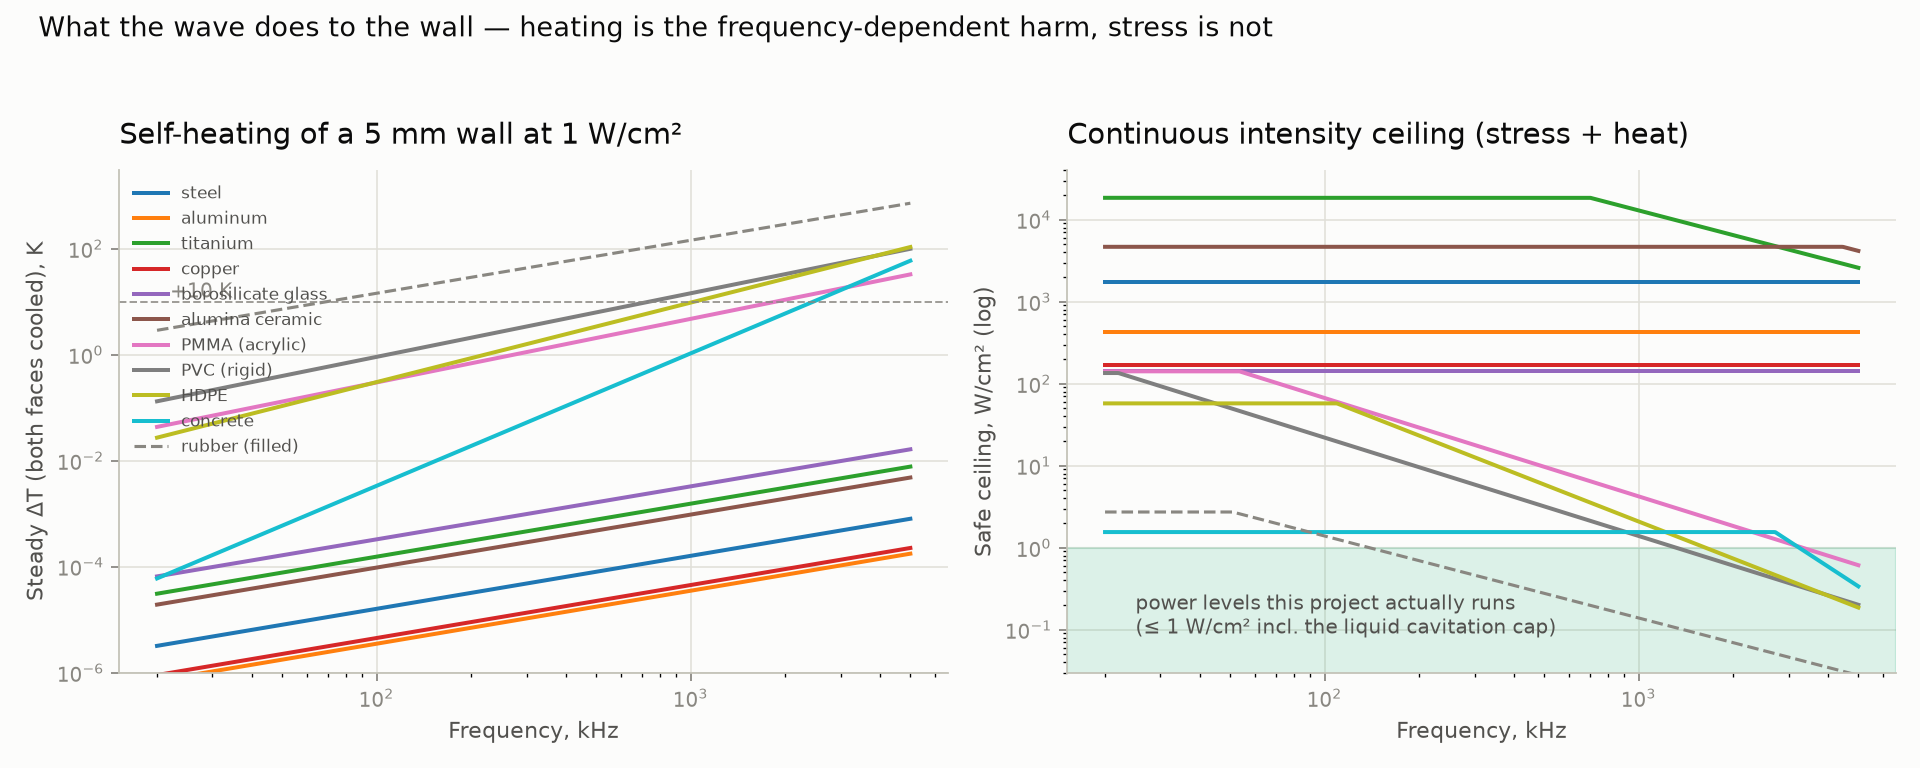
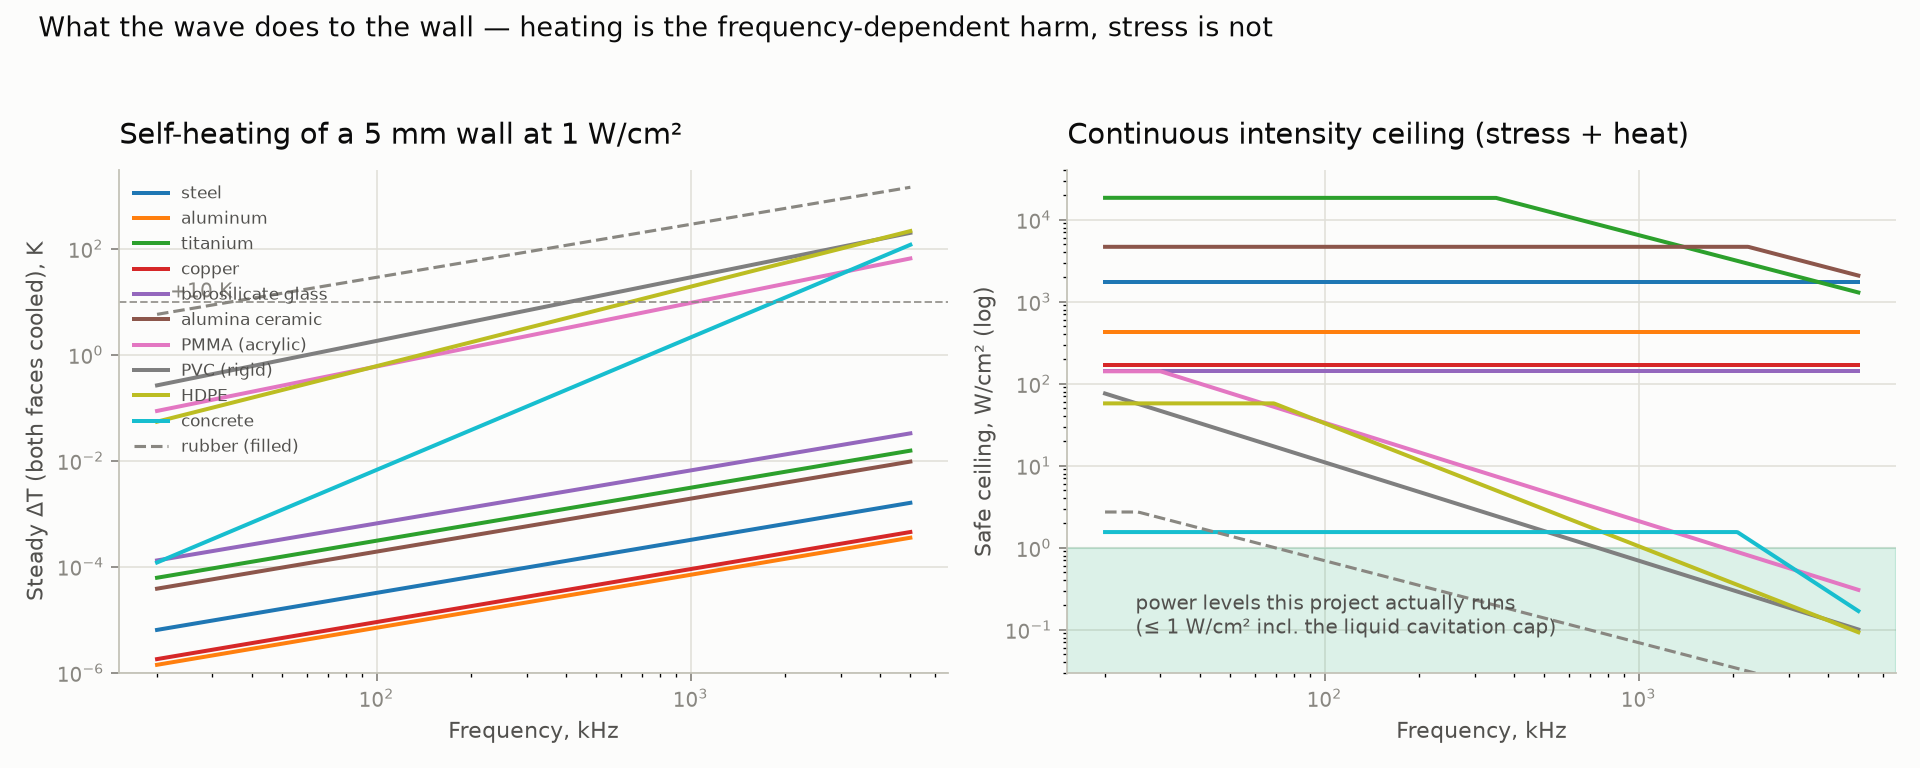
fix: intensity dB<->Np factor in the heating term (2x), add a CI self-check
The heating term converted absorption dB to Np/m with /8.686 — the
AMPLITUDE (field) convention. alpha values in the table are intensity dB
(10*log10), so the correct constant is /4.343: every dT in the dose
table was exactly 2x too low and every heat-limited ceiling 2x too
generous. Transmission numbers (10^(-alpha*d/10) path) were never
affected. Corrected: PMMA +9.5 K, PVC +28.8 K, HDPE +19.2 K per W/cm^2
at 1 MHz; rubber +288 K; heat-limited ceilings halve (PMMA 4.2 -> 2.1,
PVC 1.4 -> 0.69 W/cm^2).

That bug was found by software/simulator/selfcheck_material_map.py, a
new guard-rail that recomputes the model from first principles — the
Fabry-Perot formula against exact input-impedance recursion (231 points,
max dev 4e-16), comb positions at n*c/2d, dB<->Np consistency, the
product-of-losses approximation against the full complex-k transfer
matrix, and the stress/heating arithmetic. Wired into ci.yml. Docs and
the mat4 chart updated to the corrected numbers.

diff --git a/software/simulator/selfcheck_material_map.py b/software/simulator/selfcheck_material_map.py
@@ -1,0 +1,211 @@
+#!/usr/bin/env python3
+"""
+selfcheck_material_map.py — numerical guard-rail for material_map.py.
+
+Everything here recomputes the model's quantities from first principles and
+fails loudly on drift:
+
+  1  the Fabry-Perot formula is the EXACT lossless plane-wave solution
+     (checked against input-impedance recursion over 231 points);
+  2  comb peaks sit at n*c/2d on the lossless branch (the lossy product
+     peaks slightly lower — physical tilt from absorption, printed only);
+  3  dB <-> Np conversions are consistent with the intensity-dB convention;
+  4  the Airy x absorption product matches the full complex-k transfer
+     matrix while the loss per pass is small;
+  5  stress / heating / ceilings match from-scratch arithmetic;
+  6  key outputs stay inside the ballparks the docs promise (steel stress,
+     steel->air leakage, comb spacing, PMMA heating).
+
+Run: python3 selfcheck_material_map.py   (deps: numpy + matplotlib via
+material_map; runs in CI)
+"""
+import math
+import sys
+import os
+
+import numpy as np
+
+sys.path.insert(0, os.path.dirname(os.path.abspath(__file__)))
+import material_map as mm
+
+FAIL = []
+
+def check(name, ok, detail=""):
+    print(f"  [{'PASS' if ok else 'FAIL'}] {name}{(' — ' + detail) if detail else ''}")
+    if not ok:
+        FAIL.append(name)
+
+COUP = mm.COUPLANT_Z          # MRayl, couplant on both sides
+
+def exact_lossless(f, d_m, c_wall, z_wall, z_out):
+    """Exact lossless plane-wave intensity transmission through a slab in a
+    symmetric medium, via input impedance of the terminated line:
+    Zin = Zc (ZL cos kd + i Zc sin kd) / (Zc cos kd + i ZL sin kd)."""
+    phi = 2.0 * math.pi * f * d_m / c_wall
+    zw, z0 = z_wall * 1e6, z_out * 1e6
+    zin = zw * (z0 * math.cos(phi) + 1j * zw * math.sin(phi)) / \
+          (zw * math.cos(phi) + 1j * z0 * math.sin(phi))
+    gamma = (zin - z0) / (zin + z0)
+    return 1.0 - abs(gamma) ** 2
+
+def exact_complex_k(f, d_m, c_wall, z_wall, z_out, mu_np_m):
+    """Exact transmission with absorption: complex k = w/c - i*mu_I/2
+    (amplitude attenuation = intensity Np / 2), full transfer matrix, so ALL
+    internal re-reflections are kept."""
+    w = 2.0 * math.pi * f
+    phi = (w / c_wall - 1j * mu_np_m / 2.0) * d_m
+    zw, z0 = z_wall * 1e6, z_out * 1e6
+    cph, sph = np.cos(phi), np.sin(phi)
+    # [P; V]_front = M [P; V]_back, M = [[cos, i Z sin], [i sin/Z, cos]]
+    M = np.array([[cph, 1j * zw * sph], [1j * sph / zw, cph]])
+    # tau: complex amplitude at the backing; incident amplitude 1 in z0
+    # P_front = M00 tau + M01 tau/z0 ; V_front = M10 tau + M11 tau/z0
+    # with P_front = 1 + Gamma, V_front = (1 - Gamma)/z0
+    A = M[0, 0] + M[0, 1] / z0
+    B = M[1, 0] + M[1, 1] / z0
+    tau = 2.0 / (A + B / z0)                # solve 1+G = tau A, 1-G = tau B z0
+    return abs(tau) ** 2                    # same medium both sides
+
+print("== 1. Fabry-Perot formula vs exact lossless recursion ==")
+rng = np.random.default_rng(2026)
+worst = 0.0
+for m in mm.MATERIALS:
+    z, c = mm.z_mrayl(m), m[3]
+    freqs = [40e3, 150e3, 269e3, 590e3, 983e3, 1.5e6, float(rng.uniform(1e5, 2e6))]
+    for f in freqs:
+        for d in (3e-3, 5e-3, 10e-3):
+            airy = float(mm.fp_transmission(f, d, c, z, COUP))
+            exact = exact_lossless(f, d, c, z, COUP)
+            worst = max(worst, abs(airy - exact))
+print(f"  max |Airy - exact| over 11x7x3 = 231 pts: {worst:.2e}")
+check("FP formula == exact wave recursion (lossless)", worst < 1e-9)
+
+print("== 2. Comb positions — exact check on the LOSSLESS branch ==")
+# The lossy product (comb x absorption) genuinely peaks BELOW n*c/2d for
+# absorptive walls — physics, not a bug — so the hard equality is asserted on
+# the lossless branch (fp_transmission), and the lossy shift is only reported.
+bad = 0
+d = 5e-3
+for m in mm.MATERIALS:
+    z, c = mm.z_mrayl(m), m[3]
+    for n in (1, 2, 3):
+        f_target = n * c / (2 * d)
+        fs = np.linspace(f_target * 0.85, f_target * 1.15, 40001)
+        ts = mm.fp_transmission(fs, d, c, z, COUP)
+        f_peak = float(fs[int(np.argmax(ts))])
+        if abs(f_peak - f_target) / f_target > 1e-3:
+            bad += 1
+            print(f"    {m[1]} n={n}: lossless peak off by "
+                  f"{abs(f_peak - f_target) / f_target * 100:.3f}%")
+check("lossless comb peaks at n*c/2d (11 materials x n=1..3)", bad == 0)
+for m in mm.MATERIALS:
+    f_t = m[3] / (2 * d)
+    mu_d = mm.mu_np_per_m(m, f_t) * d
+    fs = np.linspace(f_t * 0.7, f_t * 1.1, 40001)
+    ts = mm.wall_transmission(fs, m, d)
+    f_peak = float(fs[int(np.argmax(ts))])
+    print(f"    {m[0]:>9}: lossy peak {f_peak/1e3:7.1f} kHz vs {f_t/1e3:7.1f} kHz "
+          f"(mu*d = {mu_d:.2f})")
+
+print("== 3. dB/Np consistency inside the model ==")
+dev = 0.0
+for m in mm.MATERIALS:
+    for f in (40e3, 300e3, 1e6):
+        mu = mm.mu_np_per_m(m, f)
+        d_cm = 0.5   # small enough that even rubber@1 MHz (30 dB) stays in float range
+        tenlog = float(mm.absorption(f, d_cm / 100.0, m[4], m[5]))
+        enp = math.exp(-mu * d_cm / 100.0)
+        lg_a = -10.0 * math.log10(max(tenlog, 1e-300))        # dB over d_cm
+        lg_h = mu * (d_cm / 100.0) * 4.343                    # dB over d_cm
+        dev = max(dev, abs(lg_a - lg_h) / max(1e-9, lg_h))
+check("10^(-a/10) == exp(-mu), consistent dB<->Np for the intensity dB",
+      dev < 1e-9, f"max rel dev {dev:.1e}")
+
+print("== 4. Product approximation vs full complex-k solution ==")
+
+def exact_complex_k(f, d_m, c_wall, z_wall, z_out, mu_np_m):
+    """Exact transmission with absorption: complex k = w/c - i*mu_I/2
+    (amplitude attenuation = intensity Np / 2), full transfer matrix, so ALL
+    internal re-reflections are kept."""
+    w = 2.0 * math.pi * f
+    phi = (w / c_wall - 1j * mu_np_m / 2.0) * d_m
+    zw, z0 = z_wall * 1e6, z_out * 1e6
+    cph, sph = np.cos(phi), np.sin(phi)
+    M = np.array([[cph, 1j * zw * sph], [1j * sph / zw, cph]], dtype=complex)
+    A = M[0, 0] + M[0, 1] / z0
+    B = (M[1, 0] + M[1, 1] / z0) * z0
+    tau = 2.0 / (A + B)
+    return abs(tau) ** 2                    # same medium both sides
+
+# exact solver self-test: with mu = 0 it must reproduce the Airy formula
+_dev0 = 0.0
+for _m in mm.MATERIALS:
+    _z, _c = mm.z_mrayl(_m), _m[3]
+    for _f in (40e3, 300e3, 1e6):
+        _dev0 = max(_dev0, abs(exact_complex_k(_f, 5e-3, _c, _z, COUP, 0.0) -
+                               float(mm.fp_transmission(_f, 5e-3, _c, _z, COUP))))
+check("exact solver self-test: mu=0 reproduces Airy", _dev0 < 1e-9,
+      f"max dev {_dev0:.1e}")
+
+worst_rel = 0.0
+for key in ("steel", "pmma", "pvc", "hdpe", "concrete", "rubber"):
+    mat = mm.BY_KEY[key]
+    for f in (0.3e6, 1e6, 2e6):
+        d = 5e-3
+        mu = mm.mu_np_per_m(mat, f)
+        if mu * d > 0.5:      # beyond a few dB/pass the comb barely exists;
+            continue          # "dead material" conclusions don't need the proxy
+        t_exact = exact_complex_k(f, d, mat[3], mm.z_mrayl(mat), COUP, mu)
+        t_prod = float(mm.wall_transmission(f, mat, d))
+        if t_exact > 1e-9:
+            worst_rel = max(worst_rel, abs(t_prod - t_exact) / t_exact)
+print(f"  max relative deviation (mu*d <= 0.5 cases): {worst_rel * 100:.2f}%")
+check("Airy x absorb is a fair proxy for the exact lossy stack (<5%)",
+      worst_rel < 0.05)
+
+print("== 5. Stress / heating / ceilings vs plain-math recompute ==")
+bad = 0
+for m in mm.MATERIALS:
+    z = mm.z_mrayl(m)
+    s_man = math.sqrt(2 * 1e4 * z * 1e6) / 1e6
+    if abs(s_man - float(mm.stress_mpa(m))) > 1e-9 + 1e-9 * max(1.0, s_man):
+        bad += 1
+        print(f"    stress mismatch {m[1]}")
+    for f in (40e3, 1e6, 5e6):
+        mu = m[4] * (f / 1e6) ** m[5] * 100 / 4.343      # same convention, from scratch
+        dT_man = mu * 1e4 * 0.005 ** 2 / (8 * m[6])
+        got = float(mm.heat_dT(m, f))
+        if abs(dT_man - got) > max(1e-12, 1e-6 * max(dT_man, 1e-12)):
+            bad += 1
+            print(f"    dT mismatch {m[1]} @ {f}: {dT_man} vs {got}")
+    i_stress_man = (0.2 * m[7] * 1e6) ** 2 / (2 * z * 1e6) / 1e4
+    mu1 = m[4] * 100 / 4.343
+    i_heat_man = 20 * 8 * m[6] / (mu1 * 0.005 ** 2) / 1e4
+    ceil_man = min(i_stress_man, i_heat_man)
+    got = float(mm.intensity_ceiling_wcm2(m, 1e6))
+    if abs(ceil_man - got) > 1e-6 + 1e-6 * max(ceil_man, 1e-12):
+        bad += 1
+        print(f"    ceiling mismatch {m[1]}: {ceil_man} vs {got}")
+check("stress / dT / ceiling match from-scratch recompute", bad == 0)
+
+print("== 6. sanity vs the repo's own physics docs ==")
+s_steel = float(mm.stress_mpa(mm.BY_KEY["steel"]))
+check("steel stress @1 W/cm2 within 0.7-1.1 MPa (docs/00 ballpark)",
+      0.7 <= s_steel <= 1.1, f"{s_steel:.2f} MPa")
+t_air = 4 * 400 / 46.3e6
+check("steel->air transmitted fraction O(1e-5) (docs/00)", 1e-6 < t_air < 1e-4,
+      f"{t_air:.1e}")
+dfm = mm.BY_KEY["steel"][3] / (2 * 0.005) / 1e3
+check("steel comb Δf @5 mm == 590 kHz (doc table)", abs(dfm - 590) < 0.5,
+      f"{dfm:.0f} kHz")
+p_dT = float(mm.heat_dT(mm.BY_KEY["pmma"], 1e6))
+check("PMMA dT @1 MHz, 1 W/cm2 in 8-11 K (post-fix expectation ~9.5)",
+      8 <= p_dT <= 11, f"{p_dT:.1f} K")
+
+print()
+if FAIL:
+    print(f"{len(FAIL)} FAILED:")
+    for f in FAIL:
+        print("  -", f)
+    sys.exit(1)
+print("ALL CHECKS PASSED")

diff --git a/software/simulator/material_map.py b/software/simulator/material_map.py
@@ -24,7 +24,14 @@ two losses govern the wall crossing:
   2. Bulk absorption, which the lossless model cannot see and which decides
      the fate of plastics, concrete and rubber:
         A(f) = 10 ^ (-alpha(f) * d / 10 [dB]),
-        alpha(f) = alpha_1MHz * (f/1MHz)^gamma   [dB/cm, one-way, longitudinal]
+        alpha(f) = alpha_1MHz * (f/1MHz)^gamma   [dB/cm, one-way, INTENSITY:
+        10*log10 convention — a 3 dB drop halves the intensity]
+
+     In Np/m (heating term q = mu*I) the same attenuation is
+        mu = alpha/4.343  [Np/m]
+     (the amplitude/field convention, dB/8.686 as used in pulse-echo NDT,
+     would double mu and the heating numbers — the two conventions differ
+     by exactly 2x, which is why the conversion is called out here).
 
 Material properties are TYPICAL HANDBOOK VALUES (longitudinal wave, room
 temperature). Real stocks vary — grain structure, fillers, aggregates and
@@ -166,8 +173,14 @@ def stress_mpa(m, intensity_w_m2=I_REF):
     return np.sqrt(2.0 * intensity_w_m2 * z_mrayl(m) * 1e6) / 1e6
 
 def mu_np_per_m(m, f):
-    """Bulk attenuation of the wave as Np/m — power absorbed per m is mu*I."""
-    return m[4] * (f / 1e6) ** m[5] * 100.0 / 8.686
+    """Bulk attenuation of the WAVE INTENSITY as Np/m — power absorbed per m
+    is mu*I.
+
+    dB convention: alpha values are INTENSITY dB (a 3 dB drop halves I, the
+    dosimetry convention) — therefore Np = dB/4.343 (10*log10), NOT dB/8.686
+    (which converts amplitude/field dB). Getting this wrong underestimates
+    heating exactly 2x."""
+    return m[4] * (f / 1e6) ** m[5] * 100.0 / 4.343
 
 def heat_dT(m, f, d_mm=WALL_MM, intensity_w_m2=I_REF):
     """Steady-state mid-plane self-heating of a both-faces-cooled slab with
